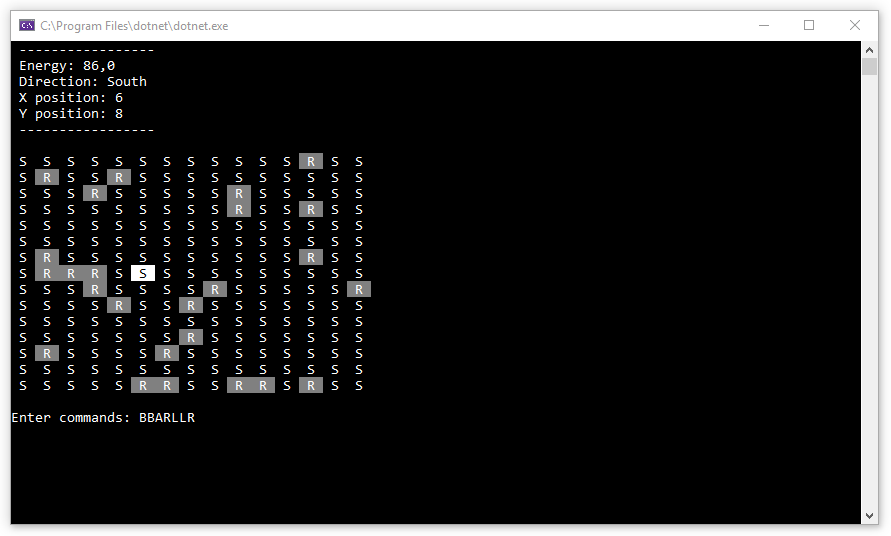
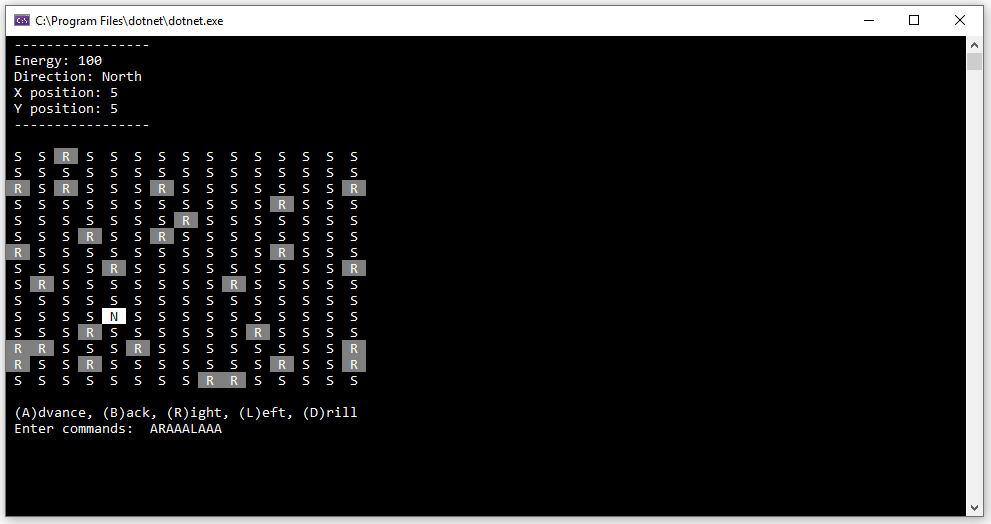
Upload screenshot

Changed region(s): [[0.0, 0.0, 1.0, 1.0]]

diff --git a/src/PlanetExploration/Presentation.Console/Display.cs b/src/PlanetExploration/Presentation.Console/Display.cs
@@ -67,7 +67,7 @@ namespace Presentation.Console
         }
 
 
-        private static void SameLine(string value, ConsoleColor foreColor = ConsoleColor.White, ConsoleColor backgroundColor = ConsoleColor.Black)
+        public static void SameLine(string value, ConsoleColor foreColor = ConsoleColor.White, ConsoleColor backgroundColor = ConsoleColor.Black)
         {
             SetConsoleColor(foreColor, backgroundColor);
 
@@ -76,7 +76,7 @@ namespace Presentation.Console
             SetConsoleDefaults();
         }
 
-        private static void NewLine(string value, ConsoleColor foreColor = ConsoleColor.White, ConsoleColor backgroundColor = ConsoleColor.Black)
+        public static void NewLine(string value, ConsoleColor foreColor = ConsoleColor.White, ConsoleColor backgroundColor = ConsoleColor.Black)
         {
             SetConsoleColor(foreColor, backgroundColor);
 

diff --git a/src/PlanetExploration/Presentation.Console/Program.cs b/src/PlanetExploration/Presentation.Console/Program.cs
@@ -23,7 +23,9 @@ namespace Presentation.Console
             {
                 Display.Jump();
 
-                System.Console.Write("Enter commands: ");
+                Display.NewLine("(A)dvance, (B)ack, (R)ight, (L)eft, (D)rill");
+                Display.SameLine("Enter commands: ");
+
                 var commands = System.Console.ReadLine();
 
                 surface.GetRover().ExecuteCommands(commands);
